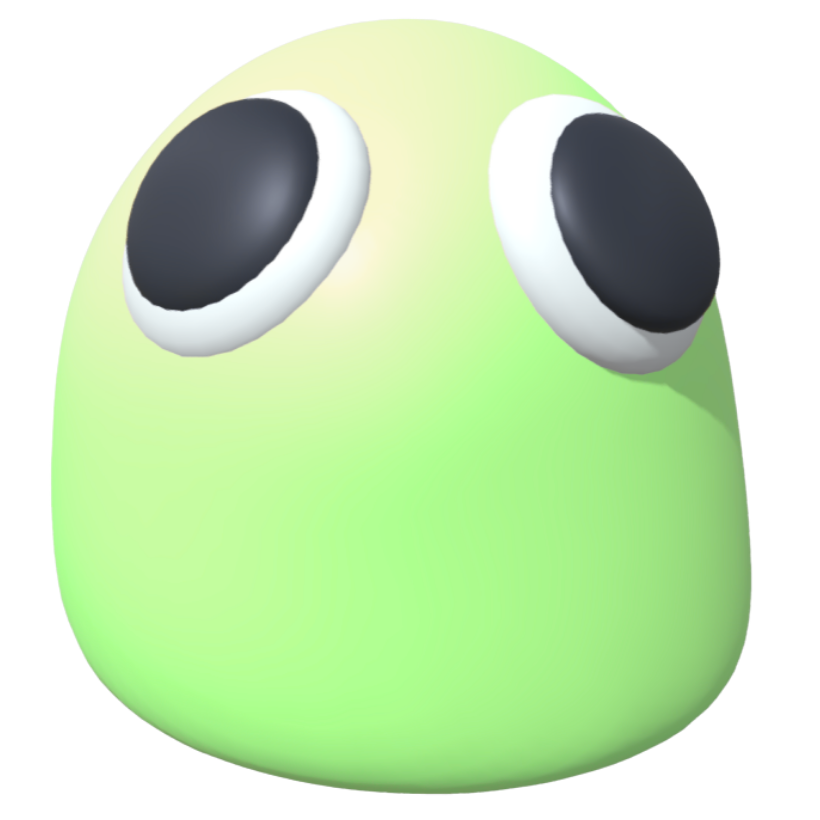
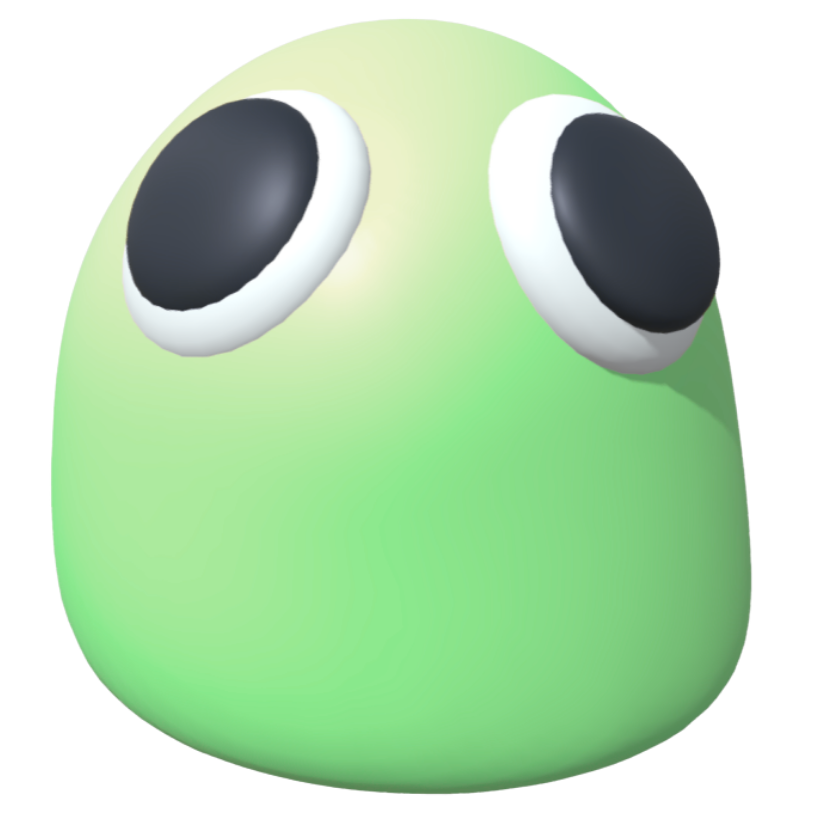
add new colors + assets

diff --git a/src/colors.ts b/src/colors.ts
@@ -3,20 +3,24 @@ export interface SlimeColor {
   hex: string;
 }
 
-export const slimeColors: SlimeColor[] = [
+export const SLIME_COLORS: SlimeColor[] = [
   { name: "purple", hex: "#96488A" },
-  { name: "pink", hex: "#e08ce6" },
+  { name: "pink", hex: "#E86AA6" },
+  { name: "yellow", hex: "#F2C200" },
   { name: "orange", hex: "#E8772E" },
   { name: "red", hex: "#D64550" },
-  { name: "blue", hex: "#459ed6" },
-  { name: "green", hex: "#5cbe65" },
+  { name: "blue", hex: "#29a7eb" },
+  { name: "green", hex: "#4fc053" },
+  { name: "teal", hex: "#1fafb6" },
+  { name: "navyblue", hex: "#1c4485" },
+  { name: "lime", hex: "#9CCC3C" },
 ];
 
-export const defaultColorIndex = 0;
+export const DEFAULT_COLOR_INDEX = 0;
 
 export function colorAt(index: number): SlimeColor {
-  const n = slimeColors.length;
-  return slimeColors[((index % n) + n) % n];
+  const n = SLIME_COLORS.length;
+  return SLIME_COLORS[((index % n) + n) % n];
 }
 
 export function hexToRgb(hex: string): [number, number, number] {
